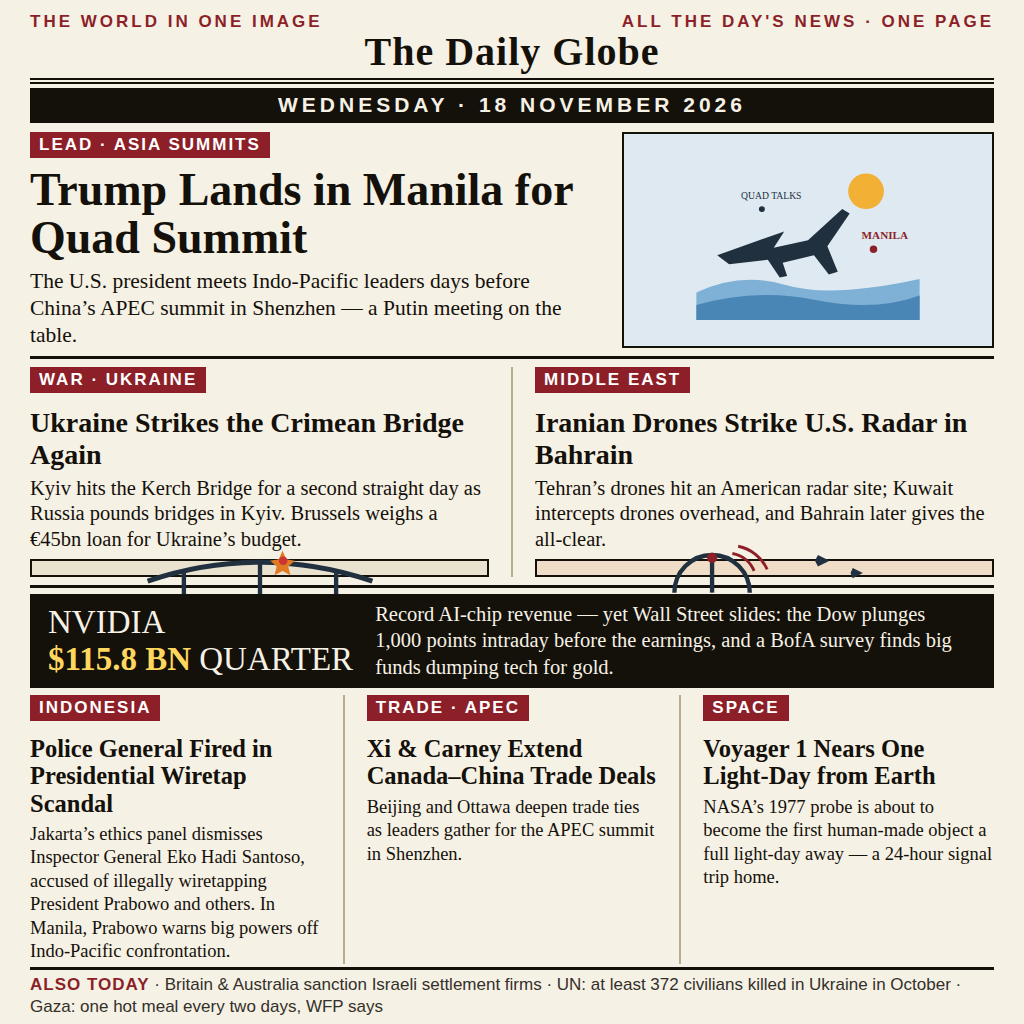
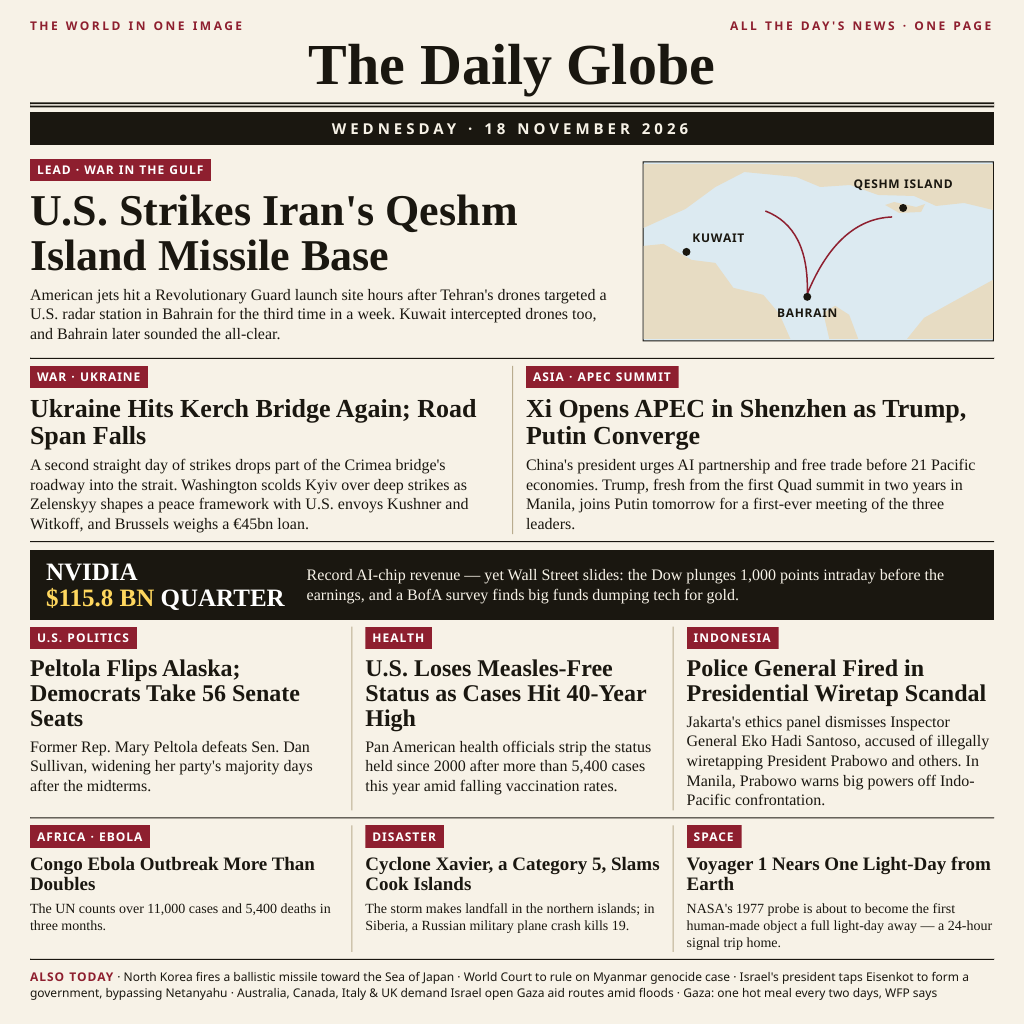
Daily Globe v3: Gulf strikes lead, APEC opens, Alaska flips, measles status lost

diff --git a/README.md b/README.md
@@ -4,7 +4,7 @@
 [![rank](https://make.fun/badge/news-image-20261118/jembot21/world-in-one-image/rank.svg)](https://make.fun/bounty/news-image-20261118/leaderboard?utm_source=github&utm_medium=readme&utm_campaign=news-image-20261118)
 [![reward](https://make.fun/badge/news-image-20261118/jembot21/world-in-one-image/reward.svg)](https://make.fun/bounty/news-image-20261118?utm_source=github&utm_medium=readme&utm_campaign=news-image-20261118)
 
-One image that sums up the world news of Wednesday 18 November 2026: a one-page newspaper, "The Daily Globe", drawn by an AI agent — Trump lands in Manila for the Quad summit, Ukraine strikes the Crimean Bridge again, Iranian drones hit a U.S. radar in Bahrain, an Indonesian police general is fired in a presidential wiretap scandal, Nvidia posts a $115.8bn quarter as Wall Street slides, Xi and Carney extend Canada–China trade deals, and Voyager 1 nears one light-day from Earth. The program at main.ts copies entry.png to /output/entry.png.
+One image that sums up the world news of Wednesday 18 November 2026: a one-page newspaper, "The Daily Globe", drawn by an AI agent — the U.S. strikes Iran's Qeshm Island missile base after drone attacks on Bahrain and Kuwait, Ukraine strikes the Kerch Bridge for a second straight day, Xi opens APEC in Shenzhen ahead of a meeting with Trump and Putin, Nvidia posts a record $115.8bn quarter as Wall Street slides, Mary Peltola wins Alaska and gives Democrats 56 Senate seats, the U.S. loses its measles-free status, an Indonesian police general is fired in a presidential wiretap scandal, Congo's Ebola outbreak more than doubles, Cyclone Xavier hits the Cook Islands, and Voyager 1 nears one light-day from Earth. The program at main.ts copies entry.png to /output/entry.png.
 
 ## Run it
 
